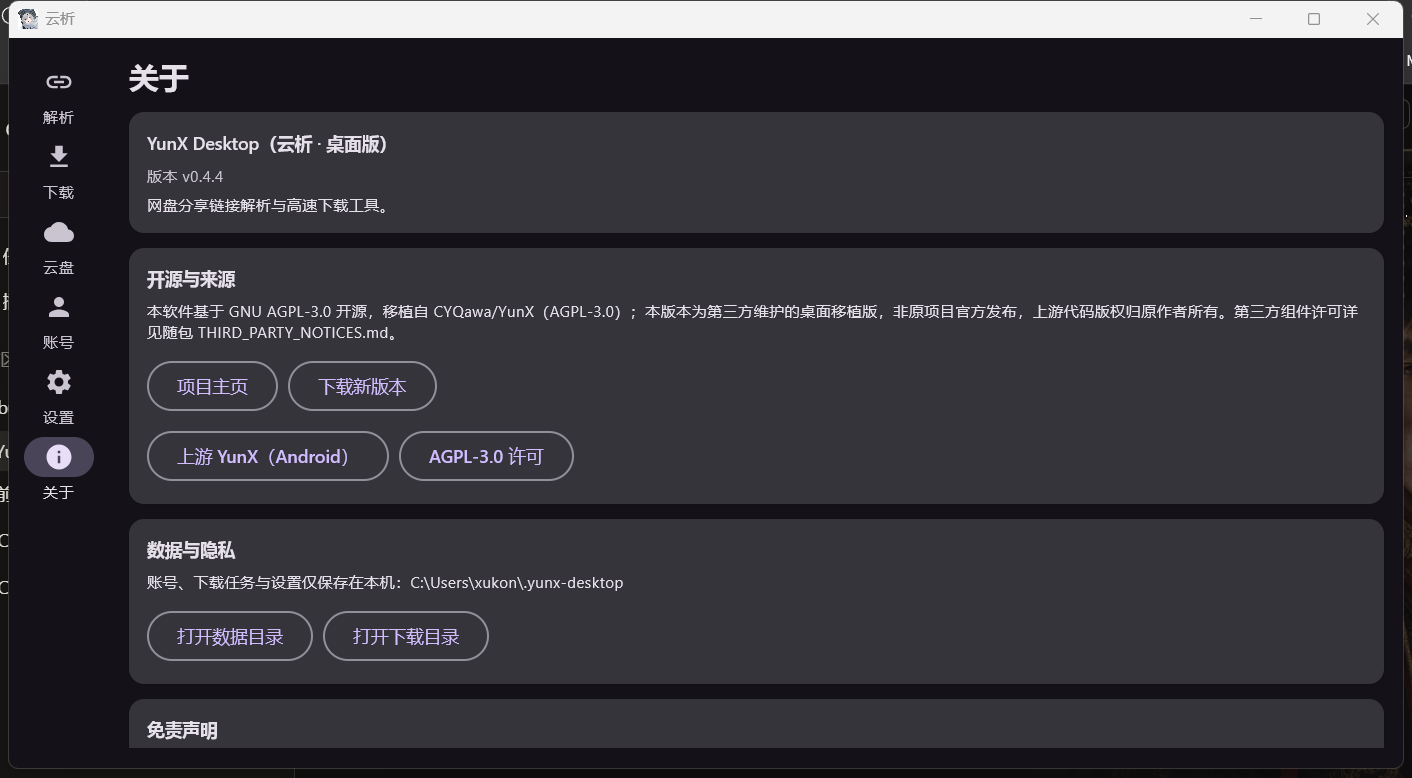
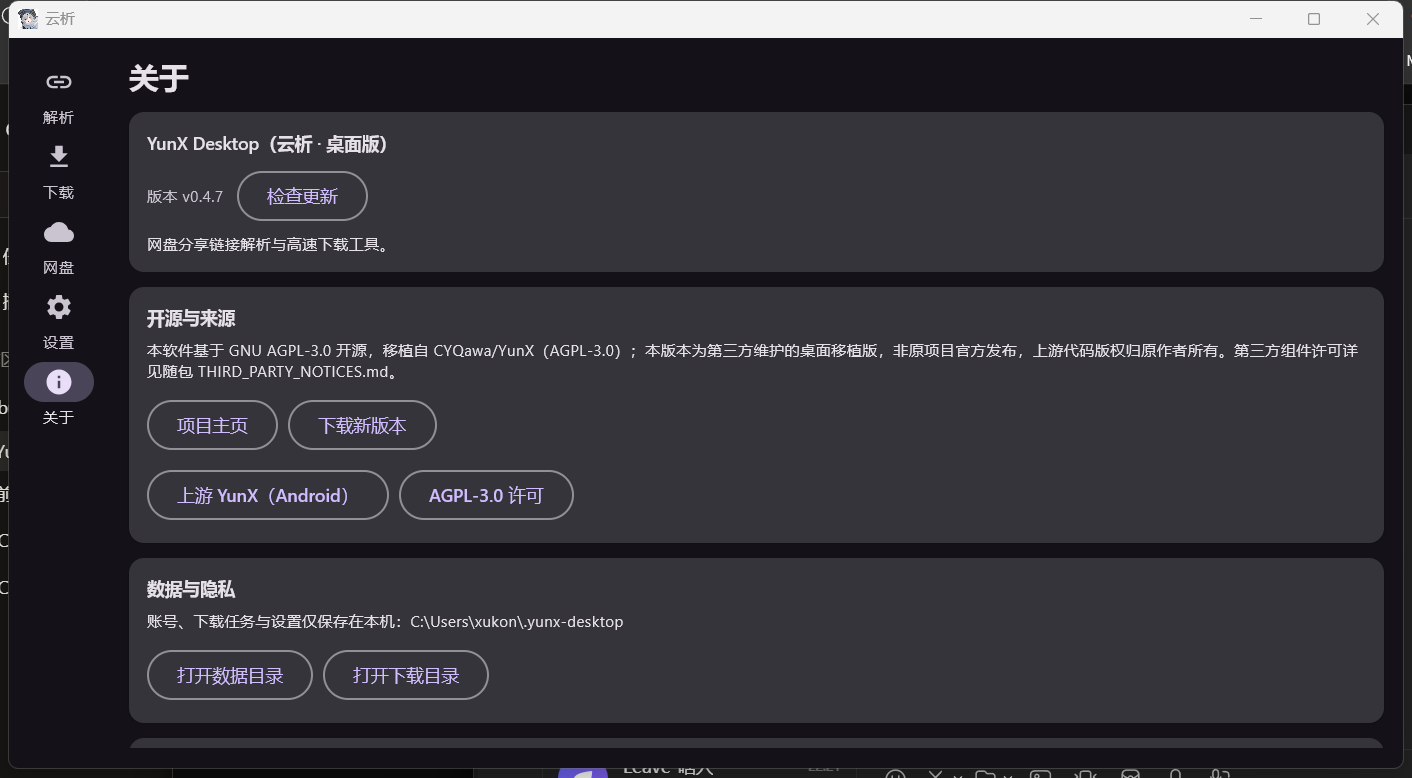
docs: refresh README screenshots for the merged 网盘 page and new settings layout

diff --git a/README.md b/README.md
@@ -25,17 +25,17 @@
 
 ## 截图
 
-| 分享链接解析 | 下载管理 | 云盘浏览 |
+| 分享链接解析 | 下载管理 | 网盘与登录 |
 |:---:|:---:|:---:|
-| ![分享链接解析](images/Link.png) | ![下载管理](images/Download.png) | ![云盘浏览](images/Cloud.png) |
+| ![分享链接解析](images/Link.png) | ![下载管理](images/Download.png) | ![网盘与登录](images/Cloud.png) |
 
-| 网盘登录 | 设置 | 关于 |
-|:---:|:---:|:---:|
-| ![网盘登录](images/Login.png) | ![设置](images/Setting.png) | ![关于](images/About.png) |
+| 设置 | 关于 |
+|:---:|:---:|
+| ![设置](images/Setting.png) | ![关于](images/About.png) |
 
 ## 使用
 
-1. 在「网盘账号」页点「网页登录」登录需要用的网盘（登录完成后按提示点「保存并关闭」）
+1. 在「网盘」页的卡片上点「网页登录」登录网盘（登录完成后按提示点「保存并关闭」），再点卡片进入该网盘浏览文件
 2. 在「解析」页粘贴分享链接（可带提取码），或直接粘贴整段分享文案
 3. 浏览分享内容，点击文件获取下载直链
 4. 「下载」页查看进度，支持暂停 / 继续 / 删除 / 打开目录
